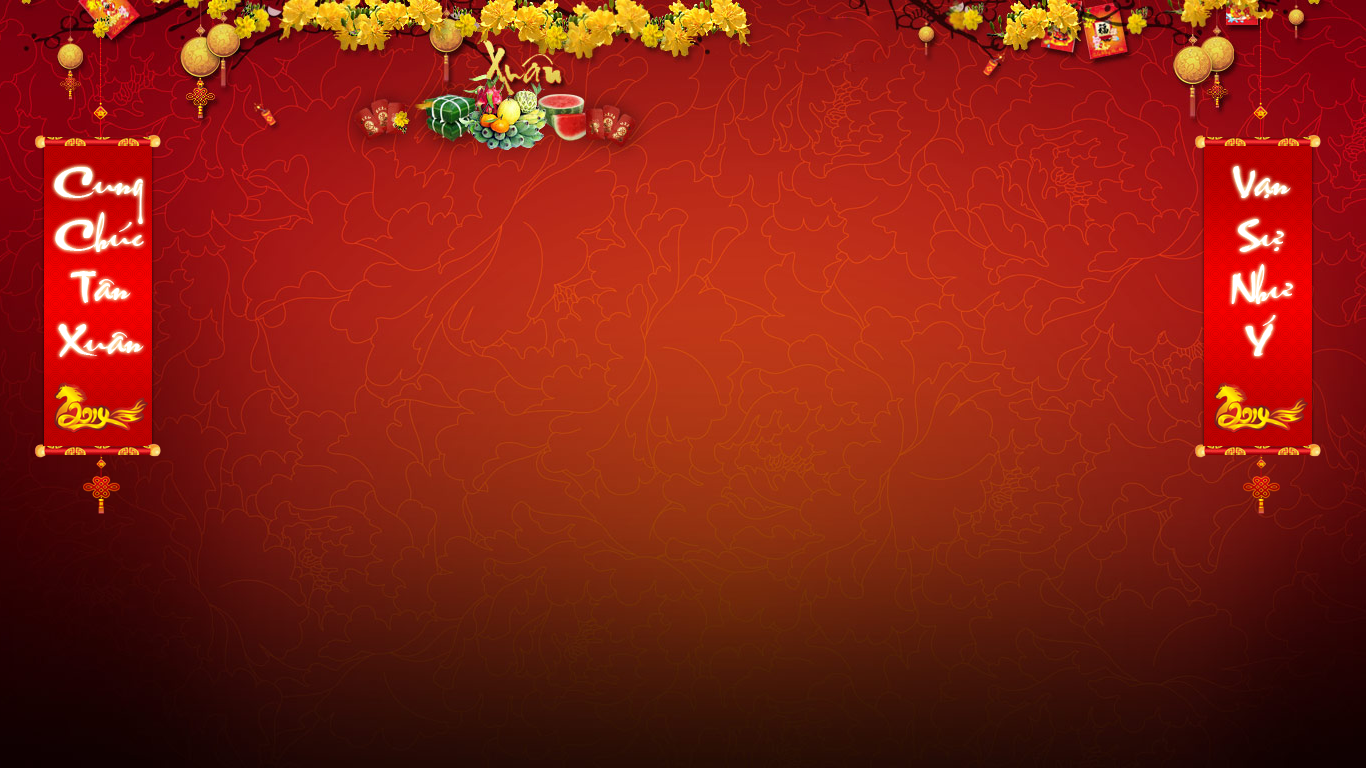
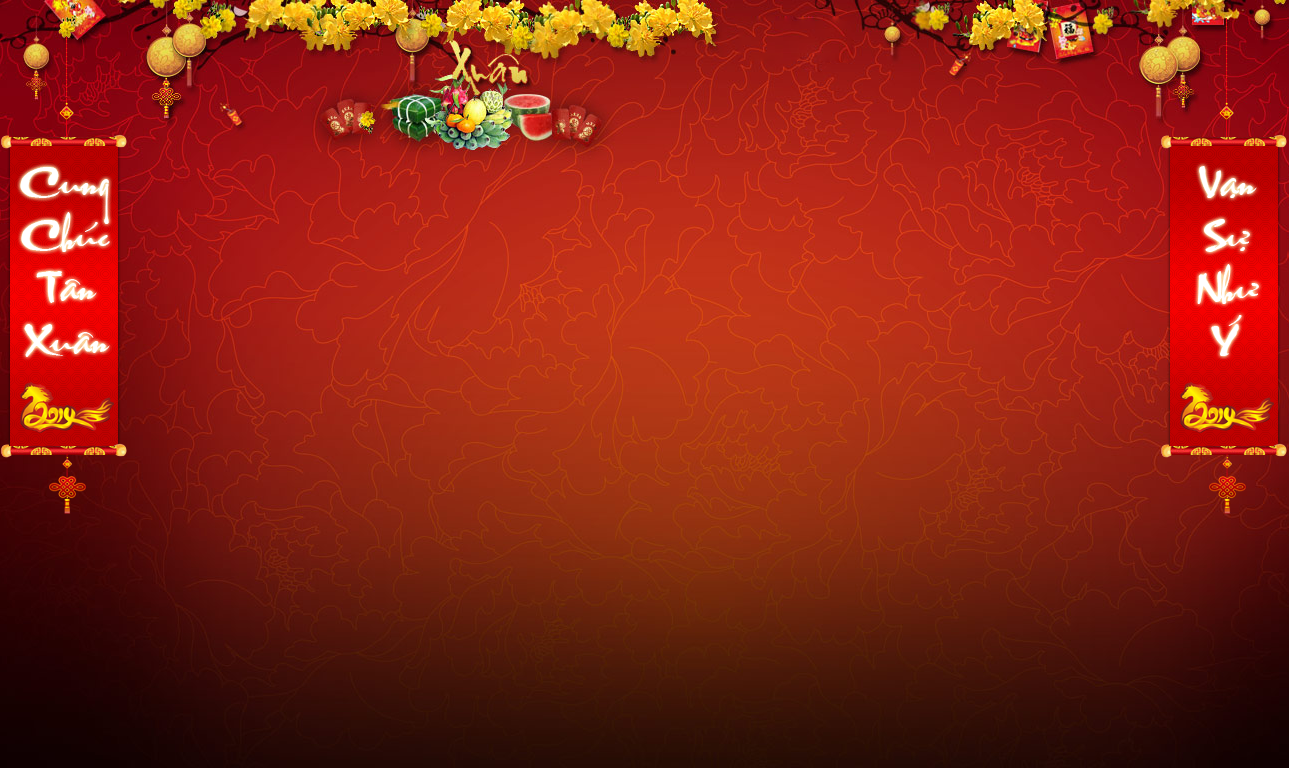
Re-arrange result

diff --git a/main.qml b/main.qml
@@ -9,19 +9,18 @@ import Player 1.0
 
 Window {
     visible: true
-    width: 1024
-    height: 768
     title: qsTr("TSDV lucky draw")
-    visibility: Window.Maximized
+    //flags: Qt.FramelessWindowHint
+    x: 0
+    y: - 1
+    width: Screen.width
+    height: Screen.height + 1
     property Player picking_player: null
-
     Image {
-            id: background_image
-            anchors.fill: parent
-            width: 32
-            height: 32
-            source: "qrc:/image/background.png"
-        }
+        id: background_image
+        anchors.fill: parent
+        source: "qrc:/image/background.png"
+    }
     Text {
         id: title
         anchors.top: parent.top
@@ -33,6 +32,7 @@ Window {
         color: "white"
         text: "TSDV YEAR END LUCKY DRAW"
     }
+
     Text {
         id: textSingleton
     }
@@ -40,7 +40,7 @@ Window {
     FontLoader {
         id: openSans
         source: "qrc:/fonts/OpenSans-Regular.ttf"
-     }
+    }
 
 
     Tumbler {
@@ -111,7 +111,7 @@ Window {
         background: Rectangle {
             implicitHeight: 100
             implicitWidth: 500
-            color: btn_pick.down ? "#84f75e" : "#c4f4b4"
+            color: btn_pick.checked ? "#FF857D" : "#84f75e"
             border.width: 0
             radius: 20
         }
@@ -158,26 +158,38 @@ Window {
         }
     }
 
-    GridView {
-        cellWidth: parent.width/3.5
+    TableView {
+        id: result_table
+        columnSpacing: 20
+        rowSpacing: 20
+        clip: true
         anchors.top: btn_pick.bottom
         anchors.bottom: parent.bottom
-        anchors.left: parent.left
-        anchors.right: parent.right
-        anchors.margins: 20
-
+        anchors.left: background_image.left
+        anchors.right: background_image.right
+        anchors.topMargin: 20
+        anchors.leftMargin: 140
+        anchors.rightMargin: 140
         model: lastPrizeItemModel
+
         delegate:
             Label  {
-            font.pixelSize: textSingleton.font.pixelSize * 2.5
+            font.pixelSize: textSingleton.font.pixelSize *(4.5 - lastPrizeItemModel.columnCount() )
             font.family: openSans.name
             color: "white"
-            text: "   " + code + ". " + name + "   ";
+            horizontalAlignment: Text.AlignHCenter
+            text:  code? "   " + code + ". " + name + "   " : "";
+            visible: code? true : false
             background: Rectangle {
                 color: "#808080"
                 radius: 4
                 opacity: 0.5
             }
+        }
+        columnWidthProvider: function (column) {
+            var column_count = lastPrizeItemModel.columnCount()
+            var column_width = result_table.width/column_count
+            return column_width
         }
     }
 
@@ -310,6 +322,41 @@ Window {
         }
     }
 
+    Button {
+        id: btn_ignore
+        text: "Ignore this turn"
+        anchors.right: parent.right
+        anchors.bottom: btn_next.top
+        anchors.rightMargin: 20
+        anchors.bottomMargin: 10
+        background: Rectangle {
+            color: btn_ignore.down ? "#FF5E5E" : "#FFB7B7"
+            radius: 4
+            opacity: 0.5
+        }
+        font.pixelSize: textSingleton.font.pixelSize * 1.5
+        onClicked: {
+            lastPrizeItemModel.removeLastPrize()
+        }
+    }
+    Button {
+        id: btn_next
+        text: "Next round"
+        width: btn_ignore.width
+        anchors.right: parent.right
+        anchors.bottom: parent.bottom
+        anchors.rightMargin: 20
+        anchors.bottomMargin: 20
+        background: Rectangle {
+            color: btn_next.down ? "#FF5E5E" : "#FFB7B7"
+            radius: 4
+            opacity: 0.5
+        }
+        font.pixelSize: textSingleton.font.pixelSize * 1.5
+        onClicked: {
+            lastPrizeItemModel.resetPrize()
+        }
+    }
     Rectangle {
         id: happy_screen
         anchors.fill: parent
@@ -324,9 +371,8 @@ Window {
                 anchors.centerIn: parent
                 color: "white"
                 text: "display_text"
-                font.pixelSize: 48
+                font.pixelSize: 64
 
-    //! [letterspacing]
                 SequentialAnimation on font.letterSpacing {
                     id: happy_screen_animation
                     loops: 1;
@@ -344,31 +390,6 @@ Window {
                 }
 
             }
-        }
-    }
-    Button {
-        id: btn_ignore
-        text: "Ignore this turn"
-        anchors.right: parent.right
-        anchors.bottom: btn_next.top
-        anchors.rightMargin: 20
-        anchors.bottomMargin: 10
-        font.pixelSize: textSingleton.font.pixelSize * 1.5
-        onClicked: {
-            lastPrizeItemModel.removeLastPrize()
-        }
-    }
-    Button {
-        id: btn_next
-        text: "Next round"
-        width: btn_ignore.width
-        anchors.right: parent.right
-        anchors.bottom: parent.bottom
-        anchors.rightMargin: 20
-        anchors.bottomMargin: 20
-        font.pixelSize: textSingleton.font.pixelSize * 1.5
-        onClicked: {
-            lastPrizeItemModel.resetPrize()
         }
     }
 }

diff --git a/LastPrizeItemModel.cpp b/LastPrizeItemModel.cpp
@@ -1,6 +1,7 @@
 #include "LastPrizeItemModel.h"
 
-#define MAX_COLUMN 1
+#define MAX_COLUMN 3
+#define MAX_ROW 4
 
 LastPrizeItemModel::LastPrizeItemModel(QObject *parent)
     : QAbstractListModel(parent)
@@ -36,20 +37,34 @@ void LastPrizeItemModel::removeLastPrize()
 int LastPrizeItemModel::rowCount(const QModelIndex &parent) const
 {
     int count = m_displayList.count();
-    int row = count%MAX_COLUMN == 0 ? count/MAX_COLUMN : count/MAX_COLUMN + 1;
+    int column_count = columnCount();
+    if(column_count == 0){
+        return 0;
+    }
+    int row = (count%column_count == 0) ? count/column_count : count/column_count + 1;
     return row;
 }
 
 int LastPrizeItemModel::columnCount(const QModelIndex &parent) const
 {
     int count = m_displayList.count();
-    int column = count>MAX_COLUMN ? MAX_COLUMN : count;
+    int iMaxRow = MAX_ROW;
+    if(count/MAX_ROW > 2){
+        iMaxRow += 2;
+    } else {
+        iMaxRow += count/MAX_ROW;
+    }
+    int column = count/iMaxRow;
+    if(count % iMaxRow > 0){
+        column += 1;
+    }
+    column = column > MAX_COLUMN ? MAX_COLUMN : column;
     return column;
 }
 
 QVariant LastPrizeItemModel::data(const QModelIndex &index, int role) const
 {
-    int iIndex = index.row() * MAX_COLUMN + index.column();
+    int iIndex = index.row() * columnCount() + index.column();
     if (index.row() < 0 || index.row() >= rowCount() || index.column() < 0 || index.column() >= columnCount() || iIndex >= m_displayList.count())
         return QVariant();
 
@@ -58,7 +73,20 @@ QVariant LastPrizeItemModel::data(const QModelIndex &index, int role) const
         return QString("%1").arg(player->code(), 3, 10, QChar('0'));
     else if (role == NameRole)
         return player->name();
+    else if(role == Qt::TextAlignmentRole) {
+        return Qt::AlignCenter;
+    }
     return QVariant();
+}
+
+Qt::ItemFlags LastPrizeItemModel::flags(const QModelIndex &index) const
+{
+    int iIndex = index.row() * columnCount() + index.column();
+    if (index.row() < 0 || index.row() >= rowCount() || index.column() < 0 || index.column() >= columnCount() || iIndex >= m_displayList.count()) {
+        return Qt::NoItemFlags;
+    } else {
+        return Qt::ItemIsEnabled | Qt::ItemIsSelectable;
+    }
 }
 
 QHash<int, QByteArray> LastPrizeItemModel::roleNames() const

diff --git a/LastPrizeItemModel.h b/LastPrizeItemModel.h
@@ -24,15 +24,15 @@ public:
     int rowCount(const QModelIndex &parent = QModelIndex()) const;
     int columnCount(const QModelIndex &parent = QModelIndex()) const;
     QVariant data(const QModelIndex &index, int role) const;
+    Qt::ItemFlags flags(const QModelIndex &index) const;
 
 protected:
     QHash<int, QByteArray> roleNames() const;
 
 signals:
-
-
 private:
     QList<Player*> m_displayList;
+
 };
 
 #endif // LASTPRIZEITEMMODEL_H

diff --git a/main.cpp b/main.cpp
@@ -14,7 +14,6 @@ int main(int argc, char *argv[])
     qmlRegisterType<PlayerManager>("PlayerManager", 1, 0, "PlayerManager");
     qmlRegisterType<Player>("Player", 1, 0, "Player");
 
-
     LastPrizeItemModel lastPrizeItemModel;
     QList<Player*> listPlayer = CsvReader::LoadPlayerList("list.csv");
     PlayerManager playerManager(listPlayer);

diff --git a/PlayerManager.cpp b/PlayerManager.cpp
@@ -41,6 +41,9 @@ Player *PlayerManager::getLastPrizeListItem(int iIndex)
 
 Player *PlayerManager::randomPrize(int iPrizeId)
 {
+    if(m_playerList.count() == 0){
+        return NULL;
+    }
     int index = QRandomGenerator::global()->bounded(m_playerList.count());
     Player* p = m_playerList.takeAt(index);
     return p;
